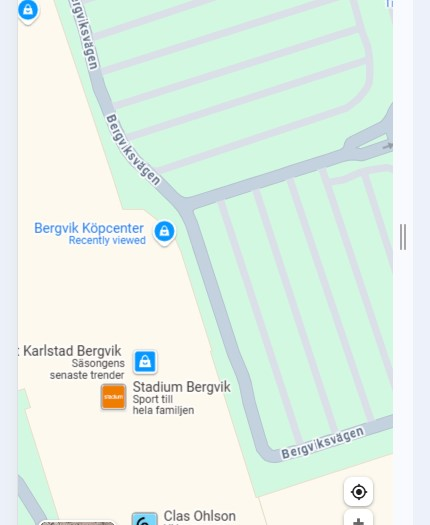
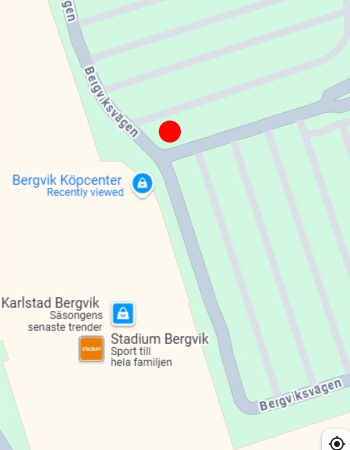
Edited map images, changed from buttons to select drop-down, added initial CSS

diff --git a/pages/map.html b/pages/map.html
@@ -44,15 +44,26 @@
 				</button>
 			</header>
 			<main class="map">
-				<h1 class="map__title">Truck karta</h1>
+				<h1 class="map__title">Hitta en foodtruck nära dig!</h1>
+				<select
+					class="map__selection-foodtrucks"
+					name="food trucks"
+					id="selectionFoodtrucks"
+				>
+					<option value="välj en adress">välj en adress</option>
+					<option value="bergvik">Bergvik</option>
+					<option value="stora torget">Stora Torget</option>
+					<option value="sundsta-alvkullegymnasiet">
+						Sundsta-Älvkullegymnasiet
+					</option>
+				</select>
 				<section class="map__img-container">
-					<img id="map" src="../assets/icons/logo-red.svg" alt="" />
+					<img
+						id="mapFoodtruck"
+						src="../assets/maps/bergvik.jpg"
+						alt="Karta med foodtruck bredvid Bergvik köpcenter"
+					/>
 				</section>
-				<ul class="map__address-container">
-					<li class="map__address">Bergvik</li>
-					<li class="map__address">Stora Torget</li>
-					<li class="map__address">Sundsta-Älvkullegymnasiet</li>
-				</ul>
 			</main>
 		</div>
 	</body>

diff --git a/styles/map.css b/styles/map.css
@@ -1,0 +1,29 @@
+.map__title {
+    text-transform: uppercase;
+    font-size: 2rem;   
+}
+
+.map__selection-foodtrucks {
+    margin: 1rem 0;
+    font-size: 1.2rem;
+    width: 100%;
+}
+
+.map__img-container {
+    width: auto;
+    height: 60vh;
+    overflow: hidden;
+}
+
+.map__address-container {
+    list-style-type: none;
+}
+
+.map__address {
+    padding-top: 1rem;
+}
+
+.map__address-button{
+    width: 100%;
+    font-size: 1.2rem;
+}
